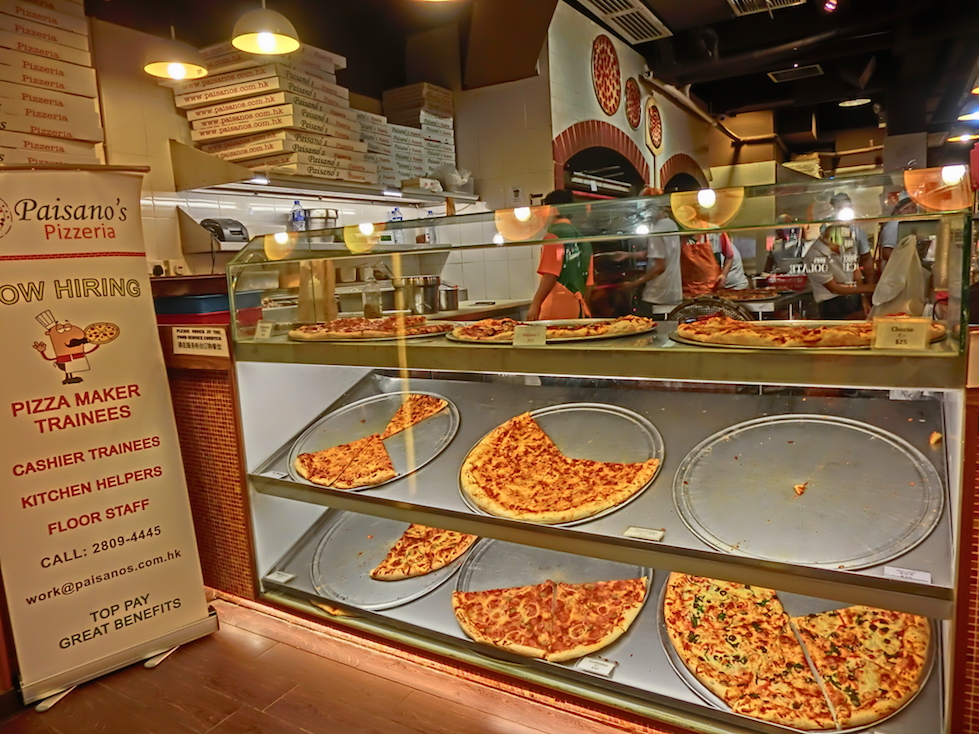
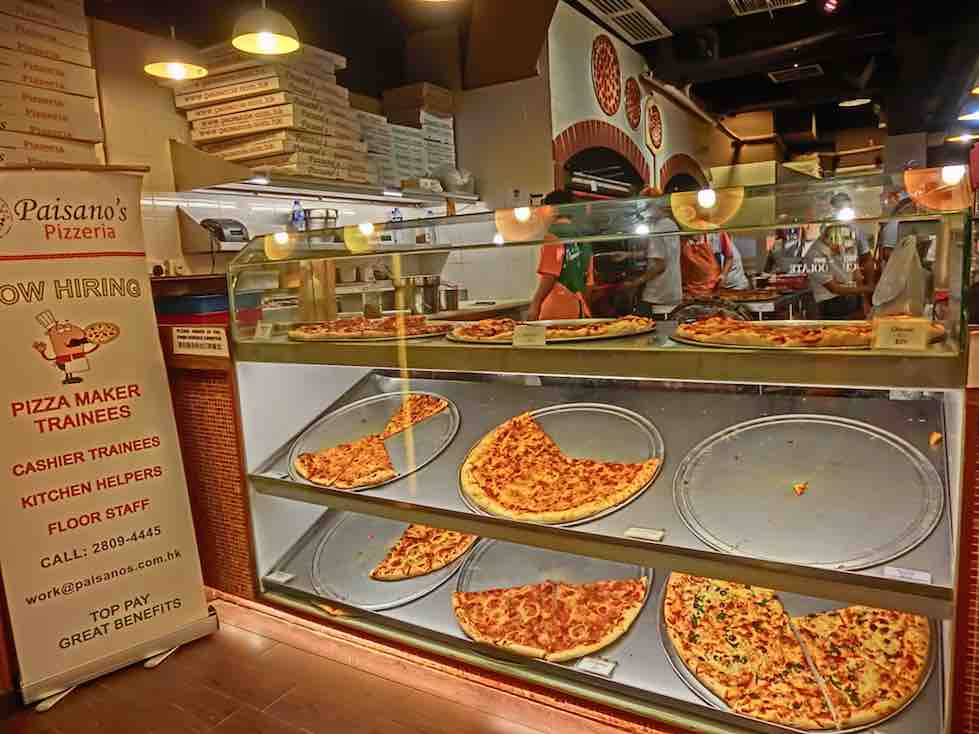
Reduce img quality, move js to top of file

diff --git a/index.html b/index.html
@@ -7,13 +7,7 @@
     <meta name="author" content=" FILL ME IN ">
     <title>Cameron Pittman: Portfolio</title>
 
-    <!-- Hmm, what is the impact of web fonts on speed? Measure it... -->
-    <link href="//fonts.googleapis.com/css?family=Open+Sans:400,700" rel="stylesheet">
-
-    <link href="css/style.css" rel="stylesheet">
-    <link href="css/print.css" rel="stylesheet">
-
-    <script>
+    <script async>
       (function(w,g){w['GoogleAnalyticsObject']=g;
       w[g]=w[g]||function(){(w[g].q=w[g].q||[]).push(arguments)};w[g].l=1*new Date();})(window,'ga');
 
@@ -23,6 +17,12 @@
     </script>
     <script src="http://www.google-analytics.com/analytics.js"></script>
     <script async src="js/perfmatters.js"></script>
+
+    <!-- Hmm, what is the impact of web fonts on speed? Measure it... -->
+    <link href="//fonts.googleapis.com/css?family=Open+Sans:400,700" rel="stylesheet">
+
+    <link href="css/style.css" rel="stylesheet">
+    <link href="css/print.css" rel="stylesheet">
   </head>
 
   <body>
